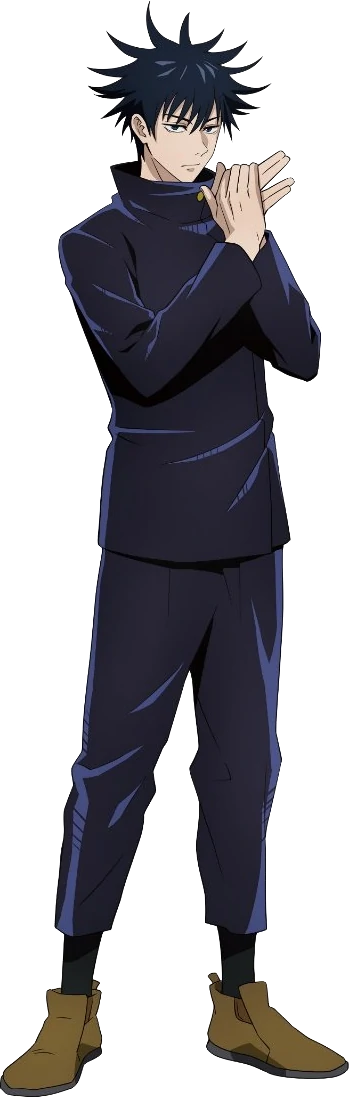
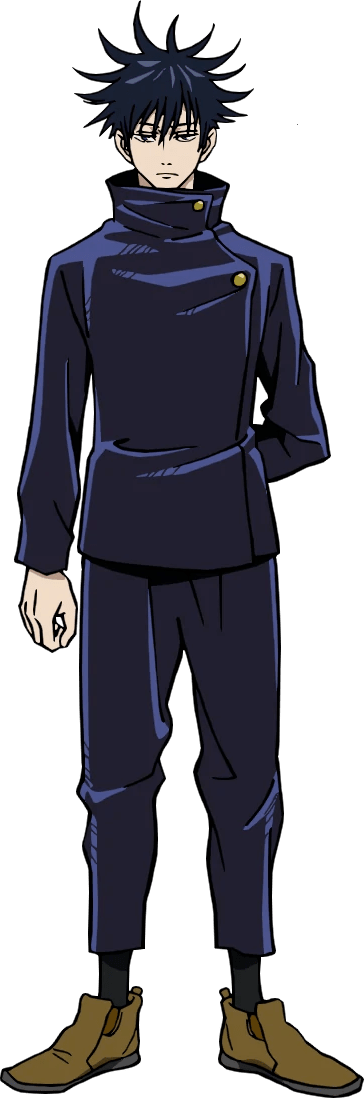
feat: characters grid

diff --git a/src/components/Character/Character.tsx b/src/components/Character/Character.tsx
@@ -1,0 +1,39 @@
+import classNames from "classnames";
+import React, { memo } from "react";
+import { Link } from "react-router-dom";
+import styles from "./Character.module.scss";
+
+type Props = {
+  id: string;
+  name: string;
+  description: string;
+  image: string;
+};
+
+export default memo(function Character({
+  id,
+  name,
+  description,
+  image,
+}: Props) {
+  return (
+    <div className={styles.characterContainer}>
+      <div className={styles.imageContainer}>
+        <img
+          alt={name}
+          className={classNames(styles.image, styles[id])}
+          src={image}
+        />
+      </div>
+      <div className={styles.info}>
+        <h3 className={styles.name}>
+          <Link to={`/character/${id}`}>{name}</Link>
+        </h3>
+        <p className={styles.description}>{description}</p>
+        <button className={styles.button}>
+          <Link to={`/character/${id}`}>View</Link>
+        </button>
+      </div>
+    </div>
+  );
+});

diff --git a/src/data/characters.ts b/src/data/characters.ts
@@ -1,0 +1,30 @@
+export default [
+  {
+    id: "itadori_yuji",
+    name: "Itadori Yuji",
+    description:
+      "I don't know how I'll feel when I'm dead, but I don't want to regret the way I lived.",
+    image: "/img/covers/itadori.webp",
+  },
+  {
+    id: "fushiguro_megumi",
+    name: "Fushiguro Megumi",
+    description:
+      "I want more good people to enjoy fairness, even if only a few.",
+    image: "/img/covers/fushiguro.webp",
+  },
+  {
+    id: "kugisaki_nobara",
+    name: "Kugisaki Nobara",
+    description:
+      "What makes us obligated to meet such perfection or such absurd standards?",
+    image: "/img/covers/kugisaki.webp",
+  },
+  {
+    id: "gojo_satoru",
+    name: "Gojo Satoru",
+    description:
+      "We’re not allowed to take youth away from young people, no matter how many of them there are.",
+    image: "/img/covers/gojo.webp",
+  },
+];

diff --git a/src/components/Character/Character.module.scss b/src/components/Character/Character.module.scss
@@ -1,0 +1,49 @@
+@import "css/variables.scss";
+
+.characterContainer {
+    @extend .secondaryContainer;
+    display: grid;
+    grid-template-columns: repeat(12, 1fr);
+    align-items: center;
+    padding: 0;
+}
+
+.imageContainer {
+    grid-column: span 4;
+    display: flex;
+    align-items: center;
+    justify-content: center;
+}
+
+.image {
+    height: $spacing-19;
+    overflow: hidden;
+    object-fit: cover;
+    border-radius: $spacing-4 0 0 $spacing-4;
+    z-index: 2;
+}
+
+
+.info {
+    grid-column: span 8;
+    padding: $spacing-5 $spacing-10;
+}
+
+.name {
+    font-size: $font-size-8;
+    font-weight: bold;
+}
+
+.description {
+    font-size: $font-size-4;
+    font-weight: $font-weight-thin;
+    color: $text-color-secondary;
+}
+
+.fushiguro_megumi {
+    object-position: 40% 50%;
+}
+
+.kugisaki_nobara {
+    object-position: left;
+}

diff --git a/src/css/variables.scss b/src/css/variables.scss
@@ -19,6 +19,8 @@ $text-color: $white;
 $text-color-hover: $primary-color;
 $text-color-secondary: $gray;
 
+$gradient: linear-gradient(90deg, $primary-color 0%, $secondary-color-light 50%, $primary-color 100%);
+
 // Font Size
 
 $font-size-1: 0.75rem;
@@ -41,6 +43,7 @@ $font-size-17: 5.75rem;
 
 // Font Weight
 
+$font-weight-thin: 100;
 $font-weight-light: 300;
 $font-weight-regular: 400;
 $font-weight-bold: 600;
@@ -117,7 +120,7 @@ $transition-ease: ease-in-out;
     -webkit-background-clip: text;
     -webkit-text-fill-color: transparent;
     background-color: $secondary-color;
-    background-image: linear-gradient(90deg, $primary-color 0%, $secondary-color-light 50%, $primary-color 100%);
+    background-image: $gradient;
     animation: 3s ease-in-out 0s infinite normal none running gradient-keyframes;
 }
 

diff --git a/src/pages/Characters/Characters.tsx b/src/pages/Characters/Characters.tsx
@@ -1,12 +1,14 @@
 import React from "react";
+import characters from "data/characters";
+import Character from "components/Character";
 import styles from "./Characters.module.scss";
 
 export default function Characters() {
   return (
-    <div className={styles.container}>
-      <div className={styles.characters}>
-        <h1 className={styles.gradient}>Characters</h1>
-      </div>
+    <div className={styles.charactersContainer}>
+      {characters.map((character) => (
+        <Character key={character.id} {...character} />
+      ))}
     </div>
   );
 }

diff --git a/src/App.tsx b/src/App.tsx
@@ -1,6 +1,7 @@
 import { Route, Routes } from "react-router-dom";
-import { Characters, Home } from "pages";
-import Navbar from "components/navbar";
+import Home from "pages/Home";
+import Characters from "pages/Characters";
+import Navbar from "components/Navbar";
 import styles from "css/App.module.scss";
 
 function App() {

diff --git a/src/pages/Characters/Characters.module.scss b/src/pages/Characters/Characters.module.scss
@@ -1,6 +1,8 @@
 @import "css/variables.scss";
 
-.characters {
-    @extend .secondaryContainer;
-    background-color: $secondary-background-color;
+.charactersContainer {
+    @extend .container;
+    display: grid;
+    grid-template-columns: repeat(auto-fill, minmax($spacing-20, 1fr));
+    gap: $spacing-6;
 }

diff --git a/vite.config.ts b/vite.config.ts
@@ -8,6 +8,7 @@ export default defineConfig({
   resolve: {
     alias: {
       css: path.resolve(__dirname, "./src/css"),
+      data: path.resolve(__dirname, "./src/data"),
       pages: path.resolve(__dirname, "./src/pages"),
       components: path.resolve(__dirname, "./src/components"),
     },

diff --git a/src/components/Navbar/Navbar.module.scss b/src/components/Navbar/Navbar.module.scss
@@ -7,6 +7,7 @@
     background-color: $background-color-translucent;
     color: $white;
     font-weight: bold;
+    z-index: 100;
 }
 
 .logo {

diff --git a/src/components/Character/index.ts b/src/components/Character/index.ts
@@ -1,0 +1,1 @@
+export { default } from "./Character";
